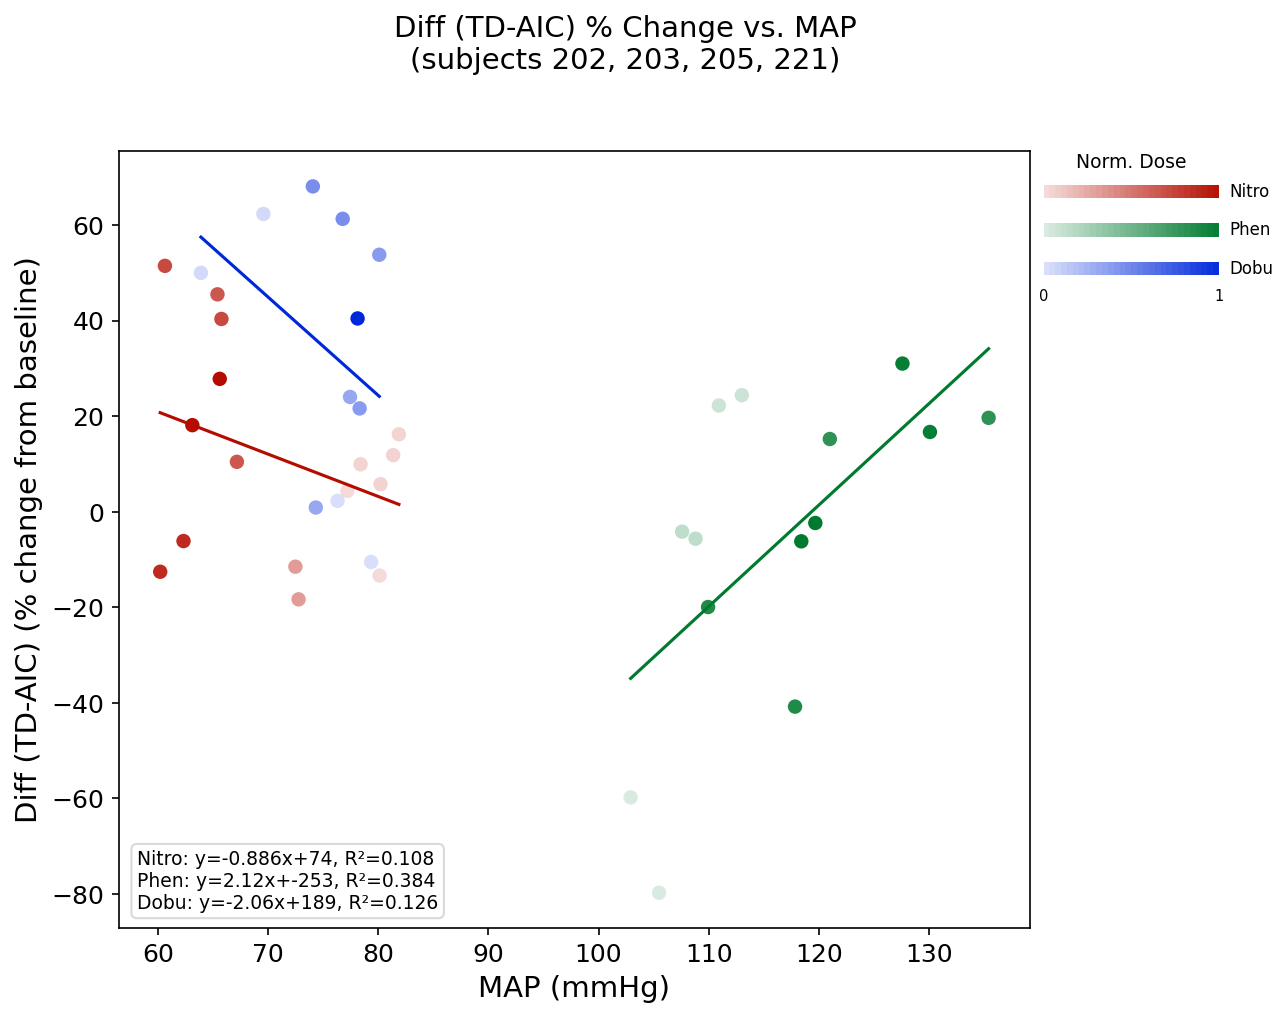
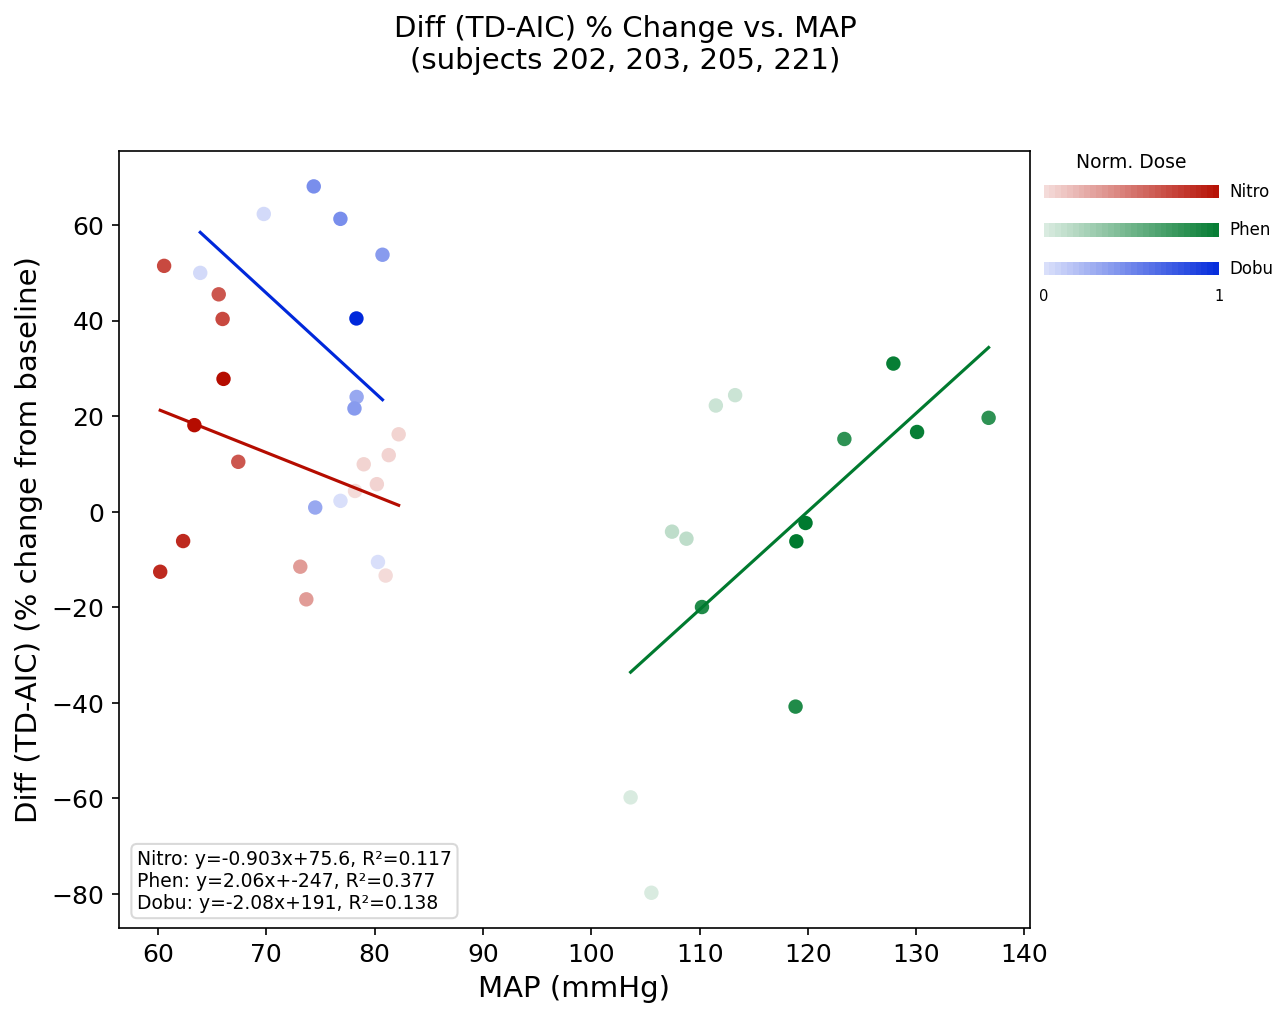
revised pipeline for ct drug effect trajectory analysis -- now includes two-round outlier removal for all metrics

diff --git a/shared/catheter_data_processing.py b/shared/catheter_data_processing.py
@@ -394,9 +394,34 @@ def process_phase_hemodynamics(label, raw_phase_dir, per_beat_dir=None):
     ECG+LVP, already extracted for the dp/dt/LVEDP pipeline -- no new raw
     signal needed for it.
 
+    CORRECTED (previously missing): applies the SAME two-round outlier
+    detection/removal as dp/dt max/min and LVEDP -- an earlier version of
+    this module deliberately did NOT apply this, reasoning that legacy
+    aop_processing.py's calc_hr/calc_pulse_pressure/calc_map never called
+    it internally. That reasoning was wrong: the original researcher
+    confirmed directly that two-round outlier detection WAS actually
+    performed on this data in their own workflow (evidenced by
+    "_cleaner"-suffixed legacy files for PP/MAP/HR, using the exact same
+    naming convention as the two-round-cleaned dp/dt/LVEDP files) -- it
+    just wasn't baked into aop_processing.py's own functions, and was
+    applied as a separate manual step instead. Confirmed via direct
+    comparison against a real legacy _cleaner file for 202's Dobu HR: the
+    uncleaned new-pipeline output matched the uncleaned legacy output
+    beat-for-beat (64 beats, 109.71428571428571 bpm, exact match to the
+    decimal), and the legacy _cleaner file for the same narrow window had
+    only 1 beat remaining -- consistent with a global (not local) 2-std
+    outlier filter correctly removing an entire transient block (e.g. a
+    drug-onset transient) that sits far from the rest of the session's
+    mean, not spurious per-beat noise.
+
+    Reuses the same _detect_outliers()/_remove_outliers() helpers already
+    used for dp/dt/LVEDP -- no new logic, same two-round pattern.
+
     per_beat_dir : str or Path, optional
-        If given, saves the final per-beat PP, MAP, and HR series (no
-        outlier removal applied to these -- see module docstring) as
+        If given, saves the FINAL (post-two-round-outlier-removal) per-beat
+        PP, MAP, and HR series -- not the intermediate half-baked versions,
+        matching the same "no _cleaned/_cleaner intermediate files on disk"
+        convention already used for dp/dt/LVEDP -- as
         {label}_pp_catheter.pkl / {label}_map_catheter.pkl /
         {label}_hr_catheter.pkl. If None (default), nothing extra is saved.
 
@@ -430,20 +455,43 @@ def process_phase_hemodynamics(label, raw_phase_dir, per_beat_dir=None):
     hr_df = _calc_hr(ecg_df, lvp_df, label)
     print(f"    [{label}] HR computed ({time.time()-_t0:.1f}s)")
 
+    # Two rounds of outlier detection/removal, same pattern as dp/dt/LVEDP.
+    # No intermediate _cleaned/_cleaner pickles written to disk -- only the
+    # final result is kept.
+    _t0 = time.time()
+    pp_outliers = _detect_outliers(pp_df["time"], pp_df["pulse_pressure"])
+    map_outliers = _detect_outliers(map_df["time"], map_df["map"])
+    hr_outliers = _detect_outliers(hr_df["time"], hr_df["heart_rate"])
+
+    pp_cleaned = _remove_outliers(pp_df, pp_outliers)
+    map_cleaned = _remove_outliers(map_df, map_outliers)
+    hr_cleaned = _remove_outliers(hr_df, hr_outliers)
+
+    pp_outliers2 = _detect_outliers(pp_cleaned["time"], pp_cleaned["pulse_pressure"])
+    map_outliers2 = _detect_outliers(map_cleaned["time"], map_cleaned["map"])
+    hr_outliers2 = _detect_outliers(hr_cleaned["time"], hr_cleaned["heart_rate"])
+
+    pp_final = _remove_outliers(pp_cleaned, pp_outliers2)
+    map_final = _remove_outliers(map_cleaned, map_outliers2)
+    hr_final = _remove_outliers(hr_cleaned, hr_outliers2)
+    print(f"    [{label}] PP/MAP/HR outlier removal done ({time.time()-_t0:.1f}s) -- "
+          f"PP {len(pp_df)}->{len(pp_final)}, MAP {len(map_df)}->{len(map_final)}, "
+          f"HR {len(hr_df)}->{len(hr_final)}")
+
     if per_beat_dir is not None:
         per_beat_dir = Path(per_beat_dir)
         per_beat_dir.mkdir(parents=True, exist_ok=True)
-        pp_df.to_pickle(per_beat_dir / f"{label}_pp_catheter.pkl")
-        map_df.to_pickle(per_beat_dir / f"{label}_map_catheter.pkl")
-        hr_df.to_pickle(per_beat_dir / f"{label}_hr_catheter.pkl")
+        pp_final.to_pickle(per_beat_dir / f"{label}_pp_catheter.pkl")
+        map_final.to_pickle(per_beat_dir / f"{label}_map_catheter.pkl")
+        hr_final.to_pickle(per_beat_dir / f"{label}_hr_catheter.pkl")
 
     return {
-        "PP_catheter_mean": pp_df["pulse_pressure"].mean(),
-        "PP_catheter_std": pp_df["pulse_pressure"].std(),
-        "MAP_catheter_mean": map_df["map"].mean(),
-        "MAP_catheter_std": map_df["map"].std(),
-        "HR_catheter_mean": hr_df["heart_rate"].mean(),
-        "HR_catheter_std": hr_df["heart_rate"].std(),
+        "PP_catheter_mean": pp_final["pulse_pressure"].mean(),
+        "PP_catheter_std": pp_final["pulse_pressure"].std(),
+        "MAP_catheter_mean": map_final["map"].mean(),
+        "MAP_catheter_std": map_final["map"].std(),
+        "HR_catheter_mean": hr_final["heart_rate"].mean(),
+        "HR_catheter_std": hr_final["heart_rate"].std(),
     }
 
 
